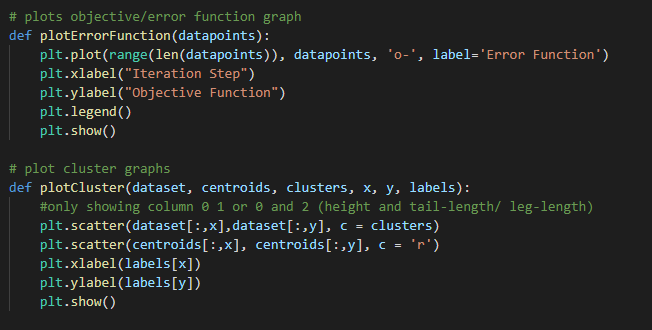
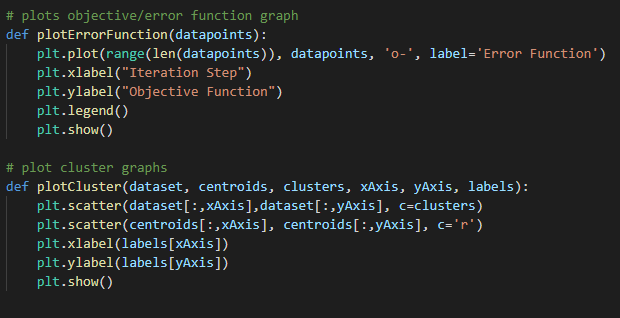
Update cluster code and image

Changed region(s): [[0.0, 0.4811, 0.9194, 0.934], [0.0, 0.0283, 0.9806, 0.4245], [0.7661, 0.7075, 0.7968, 0.7358]]

diff --git a/machineLearning.py b/machineLearning.py
@@ -242,12 +242,11 @@ def plotErrorFunction(datapoints):
     plt.show()
 
 # plot cluster graphs
-def plotCluster(dataset, centroids, clusters, x, y, labels):
-    #only showing column 0 1 or 0 and 2 (height and tail-length/ leg-length)
-    plt.scatter(dataset[:,x],dataset[:,y], c = clusters)
-    plt.scatter(centroids[:,x], centroids[:,y], c = 'r')
-    plt.xlabel(labels[x])
-    plt.ylabel(labels[y])
+def plotCluster(dataset, centroids, clusters, xAxis, yAxis, labels):
+    plt.scatter(dataset[:,xAxis],dataset[:,yAxis], c = clusters)
+    plt.scatter(centroids[:,xAxis], centroids[:,yAxis], c = 'r')
+    plt.xlabel(labels[xAxis])
+    plt.ylabel(labels[yAxis])
     plt.show()    
 
 
